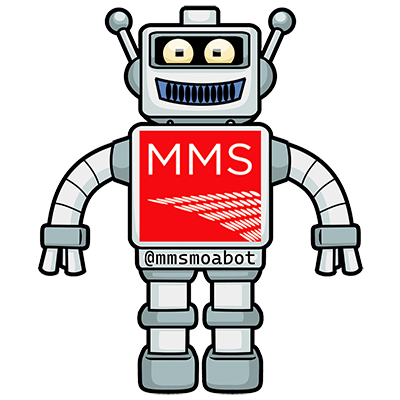
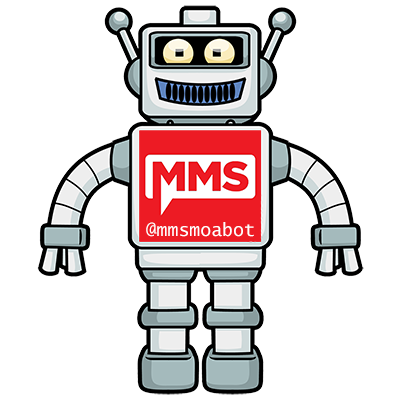
Updated for April 2023.

Changed region(s): [[0.33, 0.3, 0.66, 0.69]]

diff --git a/index.md b/index.md
@@ -10,8 +10,14 @@ Bot code is written in PHP and uses [Twitter's v2 API](https://developer.twitter
 The bot is designed to self-meter its like/retweet cadence so as not to be "spammy" or overactive. It will like/retweet no more than once every five minutes at peak capacity. Realistically, the bot self-adjusts its cadence to the average interval in which _about three tweets_ have been posted (over the search period of the previous 1-2 hours during conference time).
 
 ## Acknowledgements
-The [MMSMOA Retweet Bot](https://twitter.com/mmsmoabot) is not officially associated with [MMSMOA](https://mmsmoa.com/). The bot's [profile image](https://twitter.com/mmsmoabot/photo) is a mashup of [Jamie Sale's free clip art](https://www.jamiesale-cartoonist.com/free-cartoon-robot-vector/) and the MMS logo. The bot's header image was semi-randomly selected from the [MMSMOA 2019 photo slideshow](https://mmsmoa.com/past/mms-2019-at-moa-photos.html).
+The [MMSMOA Retweet Bot](https://twitter.com/mmsmoabot) is not officially associated with [MMSMOA](https://mmsmoa.com/). The bot's [profile image](https://twitter.com/mmsmoabot/photo) is a mashup of [Jamie Sale's free clip art](https://www.jamiesale-cartoonist.com/free-cartoon-robot-vector/) and the MMS logo. The bot's header image was semi-randomly selected from previous MMSMOA photo slideshows.
 
-During MMSMOA 2022 (at MOA), find [@matt_zaske](https://twitter.com/matt_zaske) to get a MMSMOA Retweet Bot sticker while they last (or just to chat)!
+During MMSMOA 2023 (at MOA), find [@matt_zaske](https://twitter.com/matt_zaske) to get a limited-edition MMSMOA Retweet Bot sticker while they last (or just to chat)!
 
 The [GitHub repo](https://github.com/zaskem/twitterbot-mmsbot) contains the basics for getting started with such a bot.
+
+## The MMSMOA Retweet Bot's Future
+### Updated April 3, 2023
+With Twitter's recent (and terrible) decisions regarding the future of their API, specifically in charging an unrealistic rate for projects like this, it is unclear what future the bot faces. The bot will stay in operation as long as the existing API access does. At the time of this update, Twitter indicates all previous API access will be deprecated by the end of April 2023. With no tweet search capability identified for "free" API access tiers in the New World Order, the bot's automatic functionality will ceaseonce tweet searches via the API are removed...and unfortunately just before MMS 2023 at MOA.
+
+It's been a grand and fun ride indirectly promoting MMS and the content/excitement around it, but Twitter's insistence on burning novelty access to the ground is the death knell for things like this.
